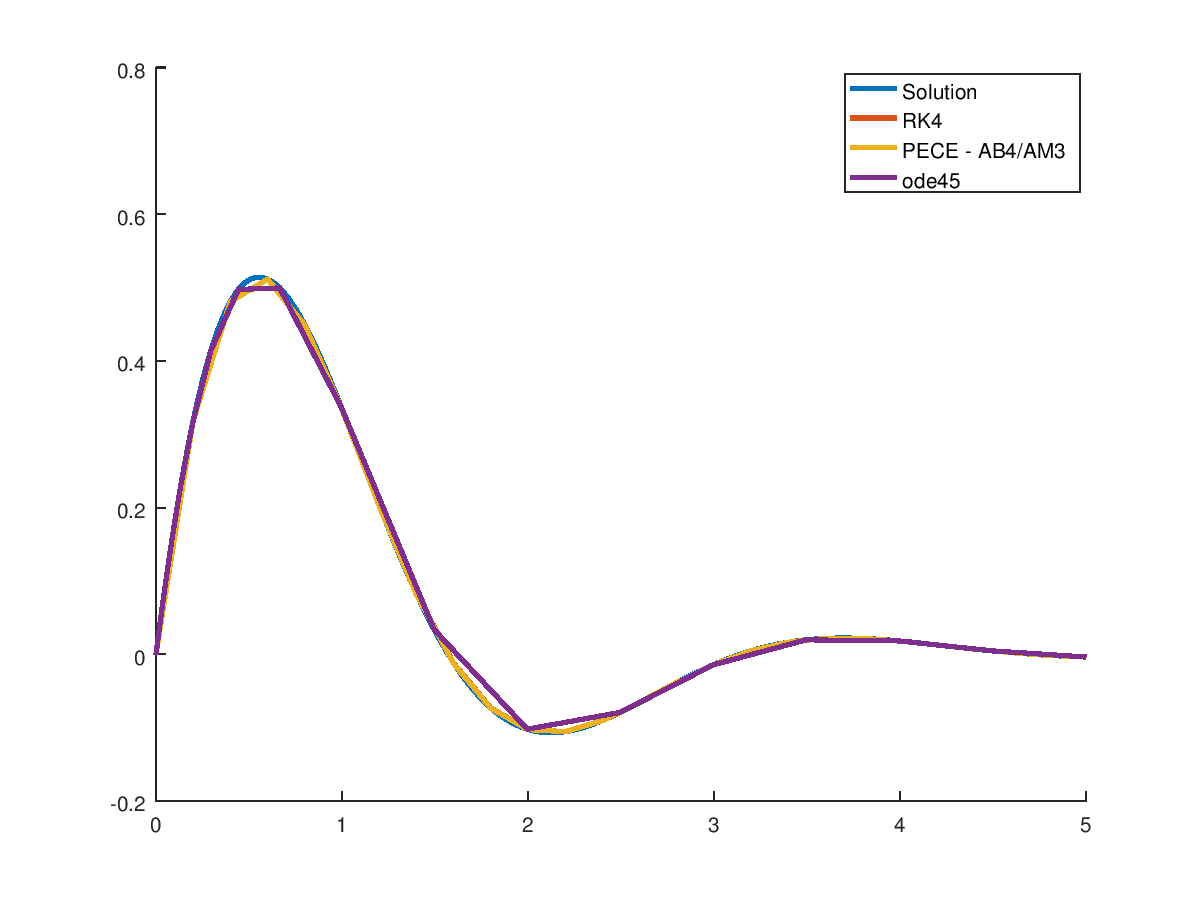
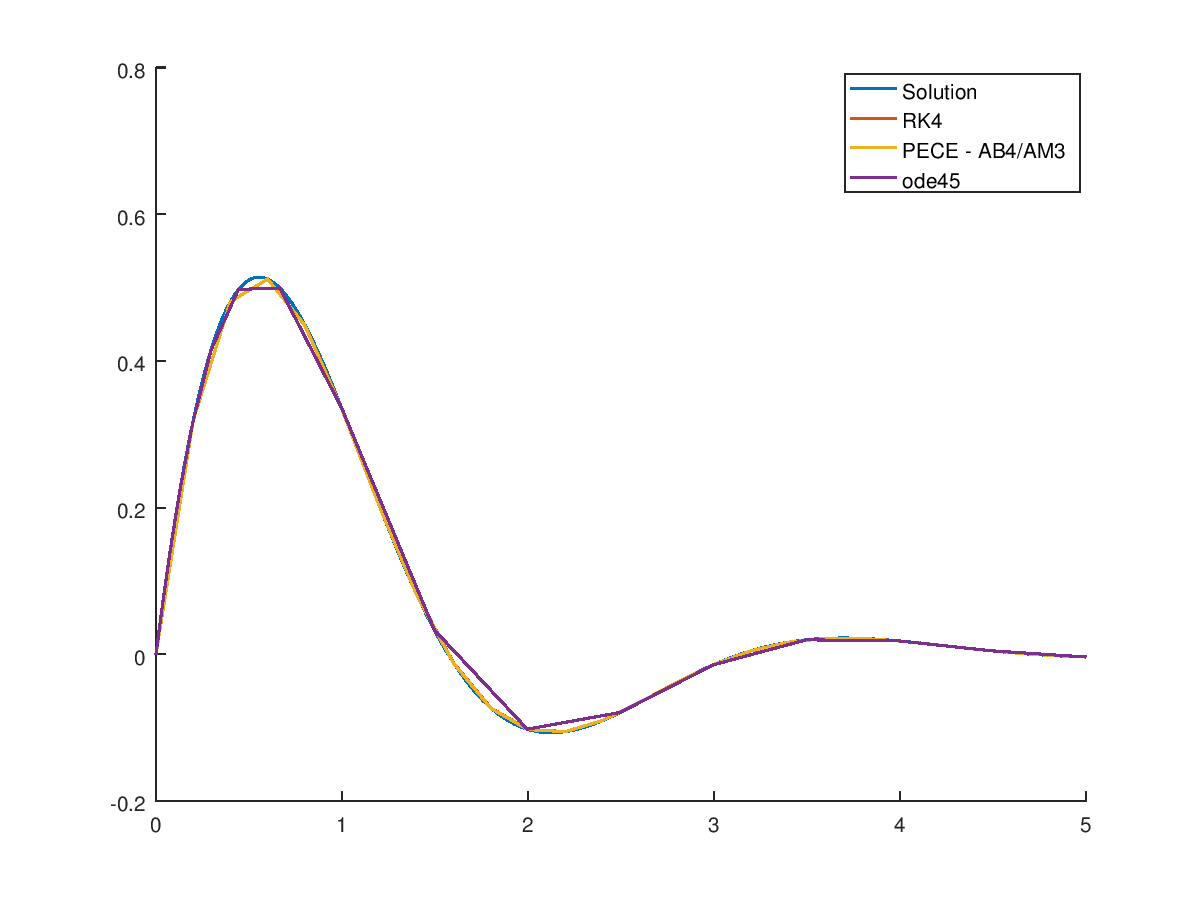
problem 2 is pretty much done

diff --git a/hw2/p2.m b/hw2/p2.m
@@ -9,7 +9,7 @@ _f = @(t) e.^(-t) .* sin(2 .* t);
 _t = linspace(0, 5, 200);
 _y = _f(_t);
 
-plot(_t, _y, 'DisplayName', 'Solution', 'LineWidth', 2);
+plot(_t, _y, 'DisplayName', 'Solution', 'LineWidth', 1);
 val = _f(3)
 
 % Numerical Solutions
@@ -35,7 +35,7 @@ end
 
 val = y((3/h) + 1)
 err = norm(_f(3) - val, inf)
-plot(t, y, 'DisplayName', 'RK4', 'LineWidth', 2);
+plot(t, y, 'DisplayName', 'RK4', 'LineWidth', 1);
 
 % PECE
 y = y(1:4); % Pull startup values from RK4
@@ -62,7 +62,7 @@ end
 
 val = y((3/h) + 1)
 err = norm(_f(3) - val, inf)
-plot(t, y, 'DisplayName', 'PECE - AB4/AM3', 'LineWidth', 2);
+plot(t, y, 'DisplayName', 'PECE - AB4/AM3', 'LineWidth', 1);
 
 % ODE45
 % Note I am using octave, so the implementation may differ slightly 
@@ -71,7 +71,7 @@ plot(t, y, 'DisplayName', 'PECE - AB4/AM3', 'LineWidth', 2);
 [solx, soly] = ode45(f, [0 5], [0 0]);
 val = interp1(solx, soly(:,1), 3, method='linear')
 err = norm(_f(3) - val, inf)
-plot(solx, soly(:,1), 'DisplayName', 'ode45', 'LineWidth', 2);
+plot(solx, soly(:,1), 'DisplayName', 'ode45', 'LineWidth', 1);
 
 legend('show');
 

diff --git a/hw2/hw2.tex b/hw2/hw2.tex
@@ -39,15 +39,9 @@
 	\item the Matlab built-in ODE45. This routine will pick its own steps.
     \end{enumerate}
 
-    Plot all 3 curves in one picture. \\
-    Print out the values at t=3 for all methods, and the error at that point. You don't
-    need to print out the rest of the values. \\
-    Run the RK and ABM programs again with h=0.1, and compare the error at t=3 for
-    h=0.2 and h=0.1.
-
 \solution
     \begin{center}
-	\includegraphics[scale=0.75]{p1_0_2}
+	\includegraphics[scale=0.95]{p1_0_2}
 
 	\begin{tabular}[pos]{|l|r|r|r|r|}
 	    \hline
